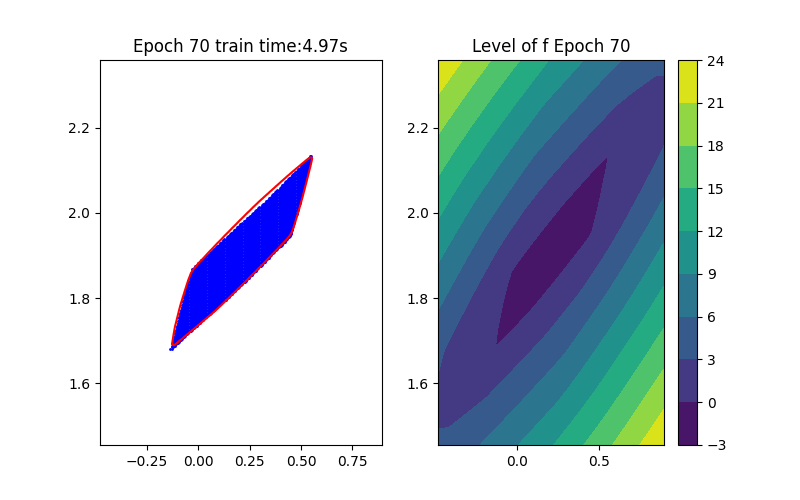
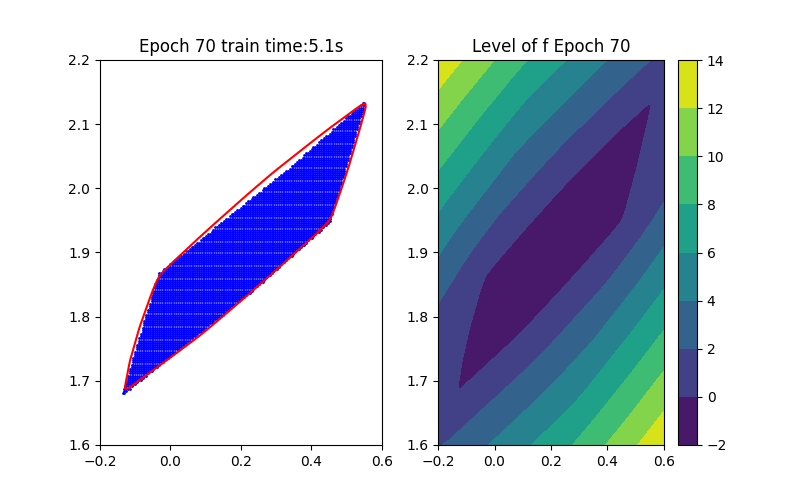
add research figs

diff --git a/_projects/Research_Project_1.md b/_projects/Research_Project_1.md
@@ -5,20 +5,17 @@ layout: archive
 permalink: /projects/data_driven_reachability_analysis
 ---
 <div class="container">
-    <div class="image-container">
+    <div class="image">
         <img src="../images/reach_intro/movie.gif" alt="Left Image" style="width: 150px; height: auto;">
     </div>
-    <div class="arrow-container">
-        <!-- You can use an image for the arrow or create one using CSS -->
-        →→→→
-    </div>
-    <div class="image-container">
+    <div class="arrow">→→→→</div>
+    <div class="image">
         <img src="../images/reach_intro/verify.png" alt="Right Image" style="width: 150px; height: auto;">
     </div>
 </div>
 
 # Introduction
-This projects
+This project aims to 
 Our contributions are:
 1. We propose a data-driven approach for fast convex hull approximation utilizing Input-Convex Neural Networks (ICNNs)
 2. 
@@ -177,7 +174,7 @@ The key idea is to replace $$S(x)$$ with some terms containing $$x$$, then the p
 # Results on Forward Reachability Analysis
 We perform our method on Double Integrator model. 
 ### Forward Reachability 
-The baseline method is [AutomatedReach](https://proceedings.mlr.press/v211/entesari23a.html).
+The baseline method is [AutomatedReach](https://proceedings.mlr.press/v211/entesari23a.html). Figures for the baseline will be updated soon for better comparison.
 <table>
   <tr>
     <td><img src="../images/reach_horizon1/movie.gif" alt="Caption 1" width="100%"><br>Horizon 1: Training</td>
@@ -201,11 +198,11 @@ The baseline method is [AutomatedReach](https://proceedings.mlr.press/v211/entes
 Verification part is still under implementation yet. The baseline method is [INVPROP](https://arxiv.org/abs/2302.01404).
 <table>
   <tr>
-    <td><img src="../images/backreach_horizon1/epoch43.png" alt="Caption 11" width="100%"><br>Horizon 1: Training</td>
+    <td><img src="../images/backreach_horizon1/epoch60.png" alt="Caption 11" width="100%"><br>Horizon 1: Training</td>
     <td><img src="../images/backreach_horizon1/step1_v.png" alt="Caption 12" width="100%"><br>Horizon 1: Baseline</td>
   </tr>
   <tr>
-    <td><img src="../images/backreach_horizon2/epoch44.png" alt="Caption 4" width="100%"><br>Horizon 2: Training</td>
+    <td><img src="../images/backreach_horizon2/epoch46.png" alt="Caption 4" width="100%"><br>Horizon 2: Training</td>
     <td><img src="../images/backreach_horizon2/step2_v.png" alt="Caption 6" width="100%"><br>Horizon 2: Baseline</td>
   </tr>
   <tr>
@@ -233,7 +230,7 @@ Also, current verification methods are not exact. Since this part is not done ye
 
 # Hidden part: some discarded ideas and results
 </summary>
-text
+Our 
 </details>
 
 
